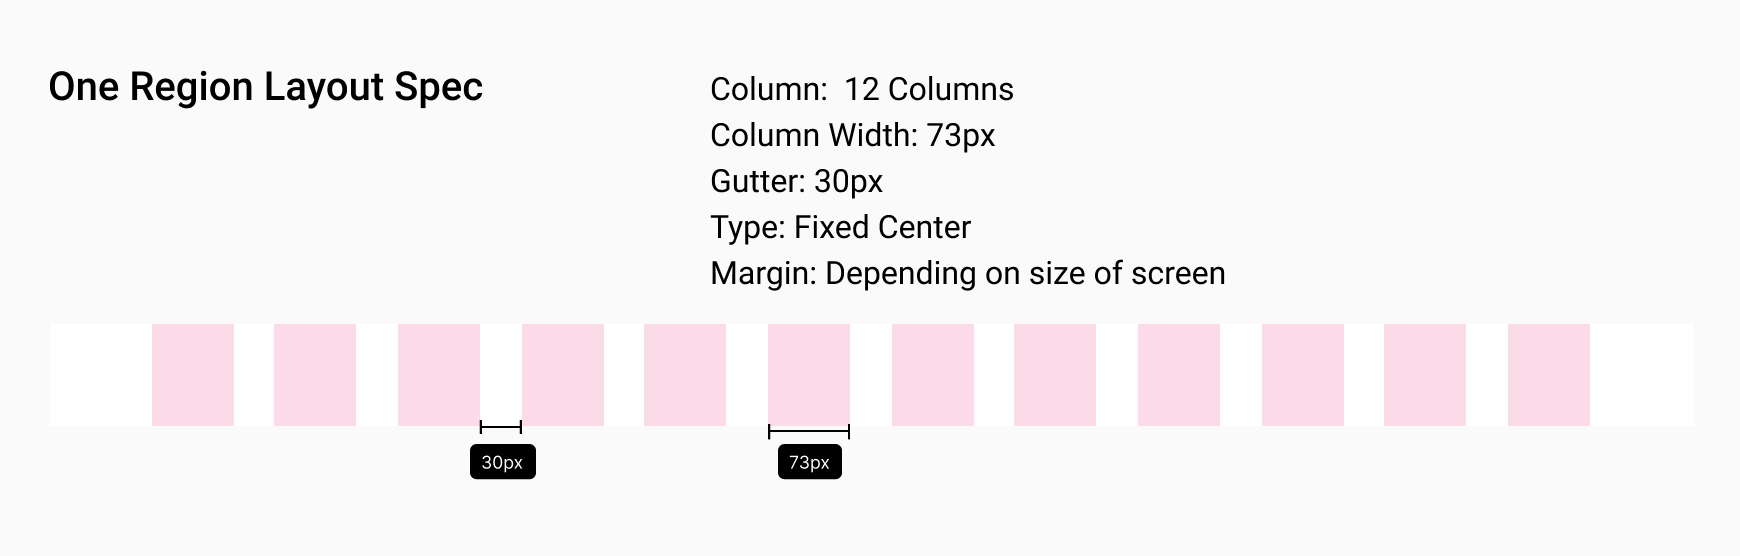
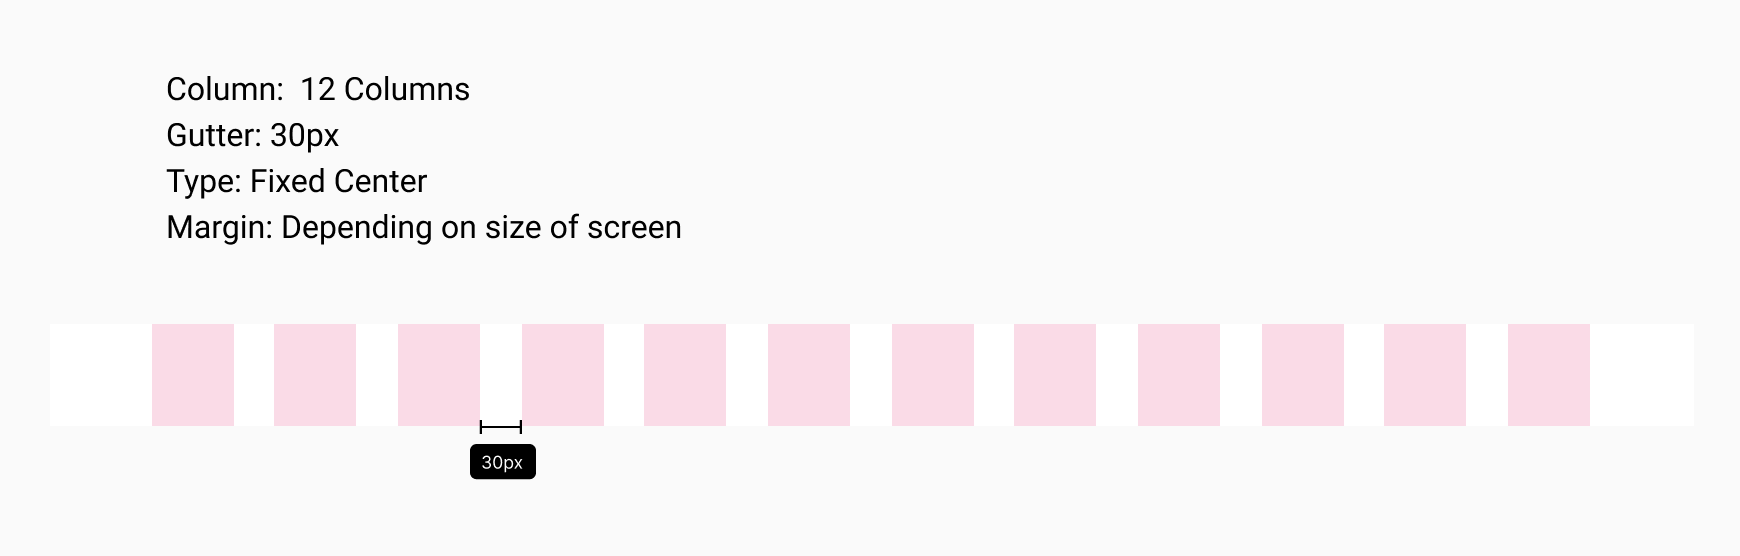
Layout Update

diff --git a/html/foundation/foundation-layout.html b/html/foundation/foundation-layout.html
@@ -97,27 +97,13 @@
                 <h2>One Region Layout</h2>
                 <p>คือ Layout ที่ทั้งหน้ามีพื้นที่เดียว ใช้ในหน้าส่วนใหญ่ของเว็ปไซต์</p>
                 <img src="../../images/wmk/foundation/img-foundation-layout-1-region-1.png" class="img-responsive" alt="button">
+                <br>
+                <h3>Layout Spec</h3>
                 <img src="../../images/wmk/foundation/img-foundation-layout-1-region-2.png" class="img-responsive" alt="button">
 
                 <br>
-              </section>
 
-
-              <section id="2-region" class="article-section">
-
-                <h2>Two Regions Layout</h2>
-                <p>เป็น Layout ที่พื้นที่ในหน้าถูกแบ่งเป็น 2 ส่วน
-                  <br>1. Left Panel จะถูก Fixed ไว้ด้านซ้ายมือและขนาดเท่าเดิมอยู่ตลอด
-                  <br>2. Content จะถูกวางด้วย Reponsive Layout 12 Column</p>
-                <img src="../../images/wmk/foundation/img-foundation-layout-2-region-1.png" class="img-responsive" alt="button">
-                <img src="../../images/wmk/foundation/img-foundation-layout-2-region-2.png" class="img-responsive" alt="button">
-
-                <br>
-              </section>
-
-              <section id="breakpoint" class="article-section">
-
-                <h2>Breakpoint</h2>
+                <h3>Breakpoint</h3>
 
                 <table class="table">
                   <thead>
@@ -126,6 +112,64 @@
                       <th>Mobile Portrait</th>
                       <th>Mobile Landscape</th>
                       <th>Tablet</th>
+                      <th>Small Desktop</th>
+                      <th>Desktop & Large Desktop</th>
+                    </tr>
+                  </thead>
+                  <tbody>
+                    <tr>
+                      <th scope="row">Screen Width</th>
+                      <td>0-575px</td>
+                      <td>576-767px</td>
+                      <td>768-921px</td>
+                      <td>922-1279px</td>
+                      <td>1280px+</td>
+                    </tr>
+                    <tr>
+                      <th scope="row">Spec</th>
+                      <td>Container 100% Width, Margin 15px</td>
+                      <td>Container 100% Width, Margin 15px</td>
+                      <td>Container 100% Width, Margin 15px</td>
+                      <td>Container 800px, Margin Auto</td>
+                      <td>Container 1200px, Margin Auto</td>
+                    </tr>
+
+                  </tbody>
+                </table>
+                <br>
+                <h3>Interactive Responsive Example</h3>
+                <ul>
+                  <li><a href="../../wmk-template/template-1-region.html" target="_blank">WealthMagik Theme (1 Region)</a></li>
+                </ul>
+                <br>
+                <br>
+              </section>
+
+
+
+              <section id="2-region" class="article-section">
+
+                <h2>Two Regions Layout</h2>
+                <p>เป็น Layout ที่พื้นที่ในหน้าถูกแบ่งเป็น 2 ส่วน
+                  <br>1. Left Panel จะถูก Fixed ไว้ด้านซ้ายมือและขนาดเท่าเดิมอยู่ตลอด
+                  <br>2. Content จะถูกวางด้วย Reponsive Layout 12 Column</p>
+                  <br>
+                <img src="../../images/wmk/foundation/img-foundation-layout-2-region-1.png" class="img-responsive" alt="button">
+                <br>
+                <h3>Layout Spec</h3>
+                <img src="../../images/wmk/foundation/img-foundation-layout-2-region-2.png" class="img-responsive" alt="button">
+
+                <br>
+
+                <h3>Breakpoint</h3>
+
+                <table class="table">
+                  <thead>
+                    <tr>
+                      <th></th>
+                      <th>Mobile Portrait</th>
+                      <th>Mobile Landscape</th>
+                      <th>Tablet and Small Desktop</th>
                       <th>Desktop</th>
                       <th>Large Desktop</th>
                     </tr>
@@ -136,17 +180,28 @@
                       <td>0-575px</td>
                       <td>576-767px</td>
                       <td>768-1279px</td>
-                      <td>1280-1480px</td>
-                      <td>1481px+</td>
+                      <td>1280-1479px</td>
+                      <td>1480px+</td>
+                    </tr>
+                    <tr>
+                      <th scope="row">Spec</th>
+                      <td>Container 100% Width, Margin 15px, Hide Menu</td>
+                      <td>Container 100% Width, Margin 15px, Hide Menu</td>
+                      <td>Container 100% Width, Margin 15px, Hide Menu</td>
+                      <td>Container 1000px, Margin Auto</td>
+                      <td>Container 1200px, Margin Auto</td>
                     </tr>
 
                   </tbody>
                 </table>
-
-                <img src="../../images/wmk/foundation/img-foundation-layout-breakoint-1.png" class="img-responsive" alt="button">
-
                 <br>
+                <h3>Interactive Responsive Example</h3>
+                <ul>
+                  <li><a href="../../wmk-template/template-2-regions.html" target="_blank">WealthMagik Theme (2 Regions)</a></li>
+                </ul>
+
               </section>
+
             </div>
               <!-- End of Article -->
 
@@ -164,9 +219,7 @@
                           <li>
                               <a href="#2-region">Two Regions Layout</a>
                           </li>
-                          <li>
-                              <a href="#breakpoint">Breakpoint</a>
-                          </li>
+
 
 
                       </ul>
